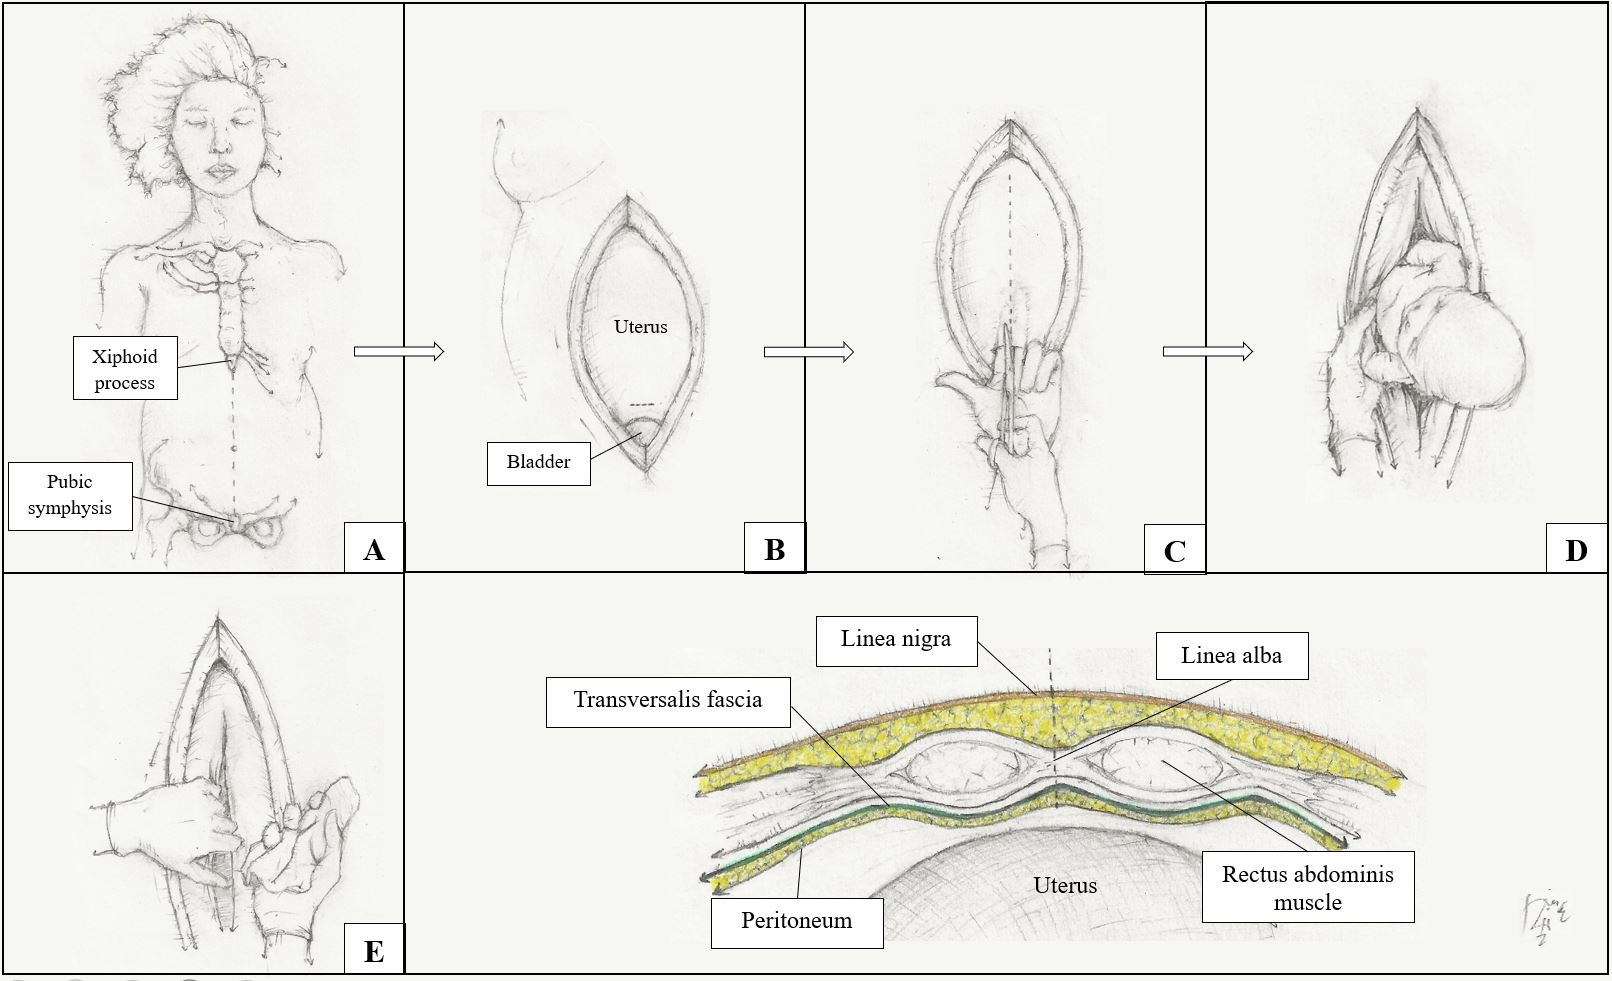
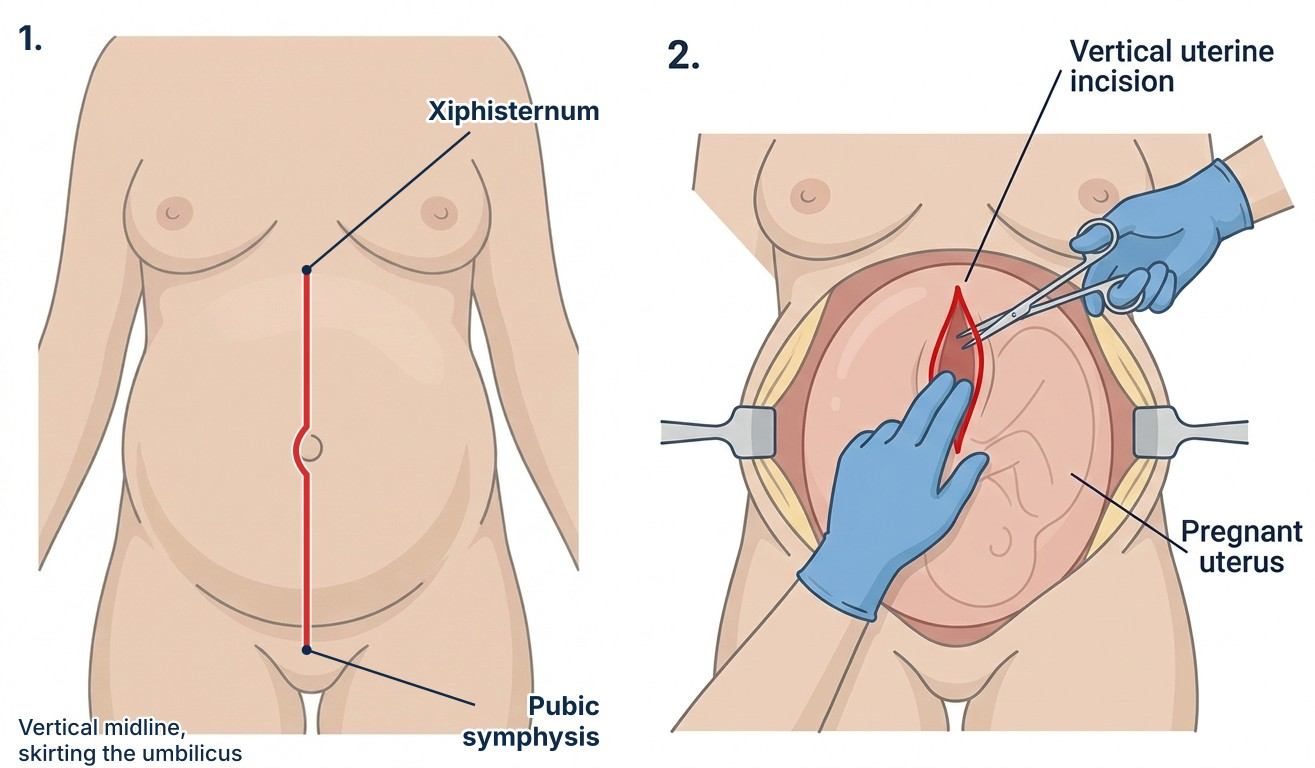
Replace the procedure diagrams with redrawn ones
All ten approved diagrams (thoracotomy, pericardiocentesis, chest drain,
eFONA, subclavian, hysterotomy, escharotomy, pacing, breech, max-fax) are
now our own drawings. The multi-panel ones (eFONA, breech,
pericardiocentesis, subclavian, canthotomy) move to the foot of the
Action page, full width, so their labels are legible in print. On the
website and app, tapping a diagram opens it full size for panning.

Claude-Session: https://claude.ai/code/session_01FVZTbXnoccWZ1GqyQU3sz3

diff --git a/Index.html b/Index.html
@@ -213,6 +213,10 @@
             margin: 0 auto;
             border: 1px solid #ddd;
         }
+        /* Wide multi-panel diagrams sit at the foot of the Action page and take the space left over */
+        .content-area:has(.diagram-wide) > *:not(.diagram-wide) { flex-shrink: 0; }
+        .diagram-wide { flex: 1 1 0; min-height: 0; display: flex; flex-direction: column; justify-content: center; }
+        .diagram-wide .diagram-img { flex: 1 1 0; min-height: 0; max-height: 105mm; width: 100%; }
         .diagram-caption {
             font-size: 8pt;
             color: #666;
@@ -513,7 +517,7 @@
         <div class="tp-version">Version 2.9 (Sep 2026)</div>
         <div style="margin-top:auto; font-size: 10pt; color: #555;">
             Based on DAS, RCEM, FPHC and Resuscitation Council UK Guidelines. Review due Sep 2027.<br>
-            <span style="font-size:8.5pt;">v2.9 changes: thoracotomy (EMJ 2026), subclavian (Safe Vascular Access 2025, MSD; large-bore introducer), breech (RCOG 20b), escharotomy (LSEBN 2026, MSD), pacing (RCUK 2025), canthotomy (RCEM, MSD), chest drain LA max dose, eFONA corrections.</span>
+            <span style="font-size:8.5pt;">v2.9 changes: thoracotomy (EMJ 2026), subclavian (Safe Vascular Access 2025, MSD; large-bore introducer), breech (RCOG 20b), escharotomy (LSEBN 2026, MSD), pacing (RCUK 2025), canthotomy (RCEM, MSD), chest drain LA max dose, eFONA corrections. All procedure diagrams redrawn for this handbook (Oct 2026; base artwork AI-generated, labels added and checked by hand).</span>
         </div>
     </div>
 
@@ -869,10 +873,6 @@
                             </ol>
                         </div>
                     </div>
-                    <div class="diagram-container">
-                        <img src="images/breech.png" class="diagram-img" alt="Breech Manoeuvres">
-                        <div class="diagram-caption">Pinard's: Abduct thigh to flex knee</div>
-                    </div>
                 </div>
             </div>
         </div>
@@ -941,6 +941,10 @@
                     </ul>
                 </div>
             </div>
+                    <div class="diagram-container diagram-wide">
+                        <img src="images/breech.png" class="diagram-img" alt="Breech Manoeuvres">
+                        <div class="diagram-caption">Pinard's (legs), Løvset's (arms), Mauriceau-Smellie-Veit (head)</div>
+                    </div>
             <div class="footer-spacer"></div>
             <div class="footer-email">Feedback/Updates: jake.turner@uhb.nhs.uk</div>
             <div class="ref-bar">
@@ -1439,10 +1443,6 @@
                             • Leave central line as drain: aspirate every 4–6h; remove when &lt;25–30ml/24h (usually 24–72h).
                         </div>
                     </div>
-                    <div class="diagram-container">
-                        <img src="images/pericardiocentesis.jpg" class="diagram-img" alt="Ultrasound approach">
-                        <div class="diagram-caption">Use Ultrasound to select best window</div>
-                    </div>
                 </div>
             </div>
         </div>
@@ -1506,6 +1506,10 @@
                     </ul>
                 </div>
             </div>
+                    <div class="diagram-container diagram-wide">
+                        <img src="images/pericardiocentesis.jpg" class="diagram-img" alt="Ultrasound approach">
+                        <div class="diagram-caption">Use Ultrasound to select best window</div>
+                    </div>
             <div class="footer-spacer"></div>
             <div class="footer-email">Feedback/Updates: jake.turner@uhb.nhs.uk</div>
             <div class="ref-bar">
@@ -1709,10 +1713,6 @@
                             </ol>
                         </div>
                     </div>
-                    <div class="diagram-container">
-                        <img src="images/subclavian.jpg" class="diagram-img" alt="Subclavian Landmark">
-                        <div class="diagram-caption">Landmark: Medial/Mid 1/3 Clavicle -> Sternal Notch</div>
-                    </div>
                 </div>
             </div>
         </div>
@@ -1777,6 +1777,10 @@
                     </div>
                 </div>
             </div>
+                    <div class="diagram-container diagram-wide">
+                        <img src="images/subclavian.jpg" class="diagram-img" alt="Subclavian Landmark">
+                        <div class="diagram-caption">Landmark: Medial/Mid 1/3 Clavicle -> Sternal Notch</div>
+                    </div>
             <div class="footer-spacer"></div>
             <div class="footer-email">Feedback/Updates: jake.turner@uhb.nhs.uk</div>
             <div class="ref-bar">
@@ -1854,10 +1858,6 @@
                             </ol>
                         </div>
                     </div>
-                    <div class="diagram-container">
-                        <img src="images/canthotomy.png" class="diagram-img" alt="Canthotomy Steps">
-                        <div class="diagram-caption">Cut Inferior Crus (Inferior Cantholysis)</div>
-                    </div>
                 </div>
             </div>
         </div>
@@ -1920,6 +1920,10 @@
                     </div>
                 </div>
             </div>
+                    <div class="diagram-container diagram-wide">
+                        <img src="images/canthotomy.png" class="diagram-img" alt="Canthotomy Steps">
+                        <div class="diagram-caption">Cut Inferior Crus (Inferior Cantholysis)</div>
+                    </div>
             <div class="footer-spacer"></div>
             <div class="footer-email">Feedback/Updates: jake.turner@uhb.nhs.uk</div>
             <div class="ref-bar">
@@ -2271,10 +2275,6 @@
                             </ol>
                         </div>
                     </div>
-                    <div class="diagram-container">
-                        <img src="images/efona.png" class="diagram-img" alt="Laryngeal Handshake">
-                        <div class="diagram-caption">Laryngeal Handshake to identify CTM</div>
-                    </div>
                 </div>
             </div>
         </div>
@@ -2340,6 +2340,10 @@
                     </ul>
                 </div>
             </div>
+                    <div class="diagram-container diagram-wide">
+                        <img src="images/efona.png" class="diagram-img" alt="eFONA steps">
+                        <div class="diagram-caption">DAS 2025 scalpel-bougie-tube, step by step</div>
+                    </div>
             <div class="footer-spacer"></div>
             <div class="footer-email">Feedback/Updates: jake.turner@uhb.nhs.uk</div>
             <div class="ref-bar">

diff --git a/build/app.js b/build/app.js
@@ -69,6 +69,32 @@
     });
   });
 
+  // Diagrams: tap to open full size, so multi-panel figures can be panned and read on a phone
+  document.querySelectorAll('.diagram-img').forEach(function (img) {
+    img.style.cursor = 'zoom-in';
+    img.addEventListener('click', function () {
+      var box = document.createElement('div');
+      box.className = 'fig-zoom';
+      box.setAttribute('role', 'dialog');
+      box.setAttribute('aria-label', img.alt || 'Diagram');
+      var close = document.createElement('button');
+      close.type = 'button';
+      close.className = 'fig-zoom-close';
+      close.textContent = 'Close';
+      var big = document.createElement('img');
+      big.src = img.currentSrc || img.src;
+      big.alt = img.alt;
+      box.appendChild(close);
+      box.appendChild(big);
+      function shut() { box.remove(); document.removeEventListener('keydown', esc); }
+      function esc(e) { if (e.key === 'Escape') shut(); }
+      close.addEventListener('click', shut);
+      document.addEventListener('keydown', esc);
+      document.body.appendChild(box);
+      close.focus();
+    });
+  });
+
   // Offline: the website installs as an app and works with no signal (the Android app bundles everything instead)
   if (!inApp && 'serviceWorker' in navigator && location.protocol === 'https:') {
     window.addEventListener('load', function () { navigator.serviceWorker.register('sw.js'); });

diff --git a/build/web.css b/build/web.css
@@ -88,6 +88,9 @@ main { max-width: 1080px; margin: 0 auto; padding: 16px; }
 .web .plan-b-box, .web .stop-box { font-size: 15px; }
 .web .storage-text { font-size: 15px; }
 .web .diagram-img { max-height: none; width: 100%; height: auto; }
+.web .diagram-wide { flex: none; display: block; }
+.web .diagram-wide .diagram-img { flex: none; max-height: none; }
+.web .content-area:has(.diagram-wide) > *:not(.diagram-wide) { flex-shrink: 1; }
 .web .diagram-caption { font-size: 13px; }
 .web .footer-email { font-size: 13px; margin-top: 12px; }
 .web .ref-bar { font-size: 13px; padding: 10px 4px; }
@@ -127,3 +130,8 @@ main { max-width: 1080px; margin: 0 auto; padding: 16px; }
   .sheet[hidden] { display: block !important; }
   body.web { background: #fff; }
 }
+
+/* Full-size diagram viewer (tap a diagram) */
+.fig-zoom { position: fixed; inset: 0; z-index: 100; background: #fff; overflow: auto; -webkit-overflow-scrolling: touch; padding: 56px 8px 16px; }
+.fig-zoom img { display: block; width: auto; max-width: none; height: auto; min-width: 100%; }
+.fig-zoom-close { position: fixed; top: 8px; right: 8px; z-index: 101; font-family: inherit; font-size: 16px; font-weight: 600; line-height: 1; padding: 10px 16px; border-radius: 8px; border: 1px solid #ccc; background: #fff; color: #222; }
